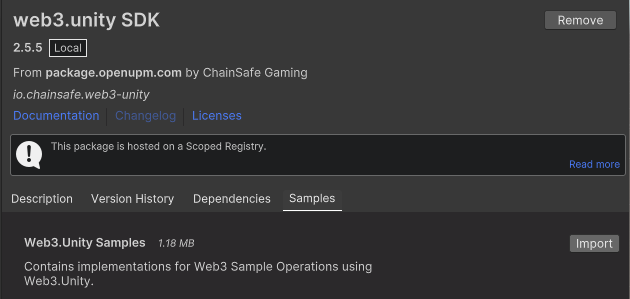
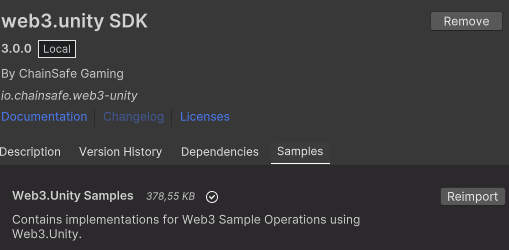
Updating the getting started to make sure that all the info stays relevant for the upcoming release.

diff --git a/docs/v2.6/1_getting-started.md b/docs/v2.6/1_getting-started.md
@@ -37,11 +37,18 @@ Go to window → package manager → select the web3.unity SDK package and press
 
 ### Set Project ID
 
-As the package is installed, you'll be prompted with the ChainSafe server settings. First you have to setup your Project ID. You can create one [here](https://dashboard.gaming.chainsafe.io/) or you can click on the "Need To Register?" button in the server settings.
+As the package is installed, you'll be prompted with the ChainSafe server settings. First you have to setup your Project ID. You can create one [here](https://dashboard.gaming.chainsafe.io/) or you can click on the "Get a Project ID" button in the server settings.
 
 ![](assets/getting-started/project-settings.png)
 
-After you've completed the registration process, copy your Project ID into the project settings window. You should see a message in the console saying your project id is valid. Select the chain you would like to use and the rest of the fields will auto populate. If you would like to set up your own RPC node, visit [this page](https://docs.gaming.chainsafe.io/current/setting-up-an-rpc-node).
+After you've completed the registration process, copy your Project ID into the project settings window. You should see a message in the console saying your project id is valid. 
+Next up, you need to set up the list of chains you want to interact with inside of your project:
+
+![](assets/getting-started/chain-settings.png)
+
+You need a minimum of 1 chain for the SDK to work normally.
+
+Small note: All of our samples are made on the Ethereum Sepolia network. If you run the samples whilst you are on another chain, you will get an exception.
 
 If you need to refer to the ChainSafe server settings area again, you can find it on the top navigation bar. Simply select it and press server settings to view the menu.
 

diff --git a/docs/1_chainsafe-gaming.md b/docs/1_chainsafe-gaming.md
@@ -34,7 +34,20 @@ Out-of-the-box, Web3.unity comes with Unity sample scripts, scenes, prefabs & to
 
 ## Ready To Get Started?
 
-#### Current SDK Builds (v2.x)
+#### Current SDK Builds (v3.x)
+
+In the latest 3.0 we've significantly reduced the effort for developers to interact with the blockchain. Once you have the core package installed you can just drag and drop the Web3Unity prefab to the scene:
+
+```[csharp]
+public class ExampleClass : MonoBehaviour
+{
+    public async void Start()
+    {
+        await Web3Unity.Instance.Initialize(false);
+        await Web3Unity.Web3.Erc20.BalanceOf("0xd25b827D92b0fd656A1c829933e9b0b836d5C3e2");
+    }
+}
+```
 
 [Click here](https://docs.gaming.chainsafe.io/current/getting-started) to open documentation for the latest version of web3.unity.
 
